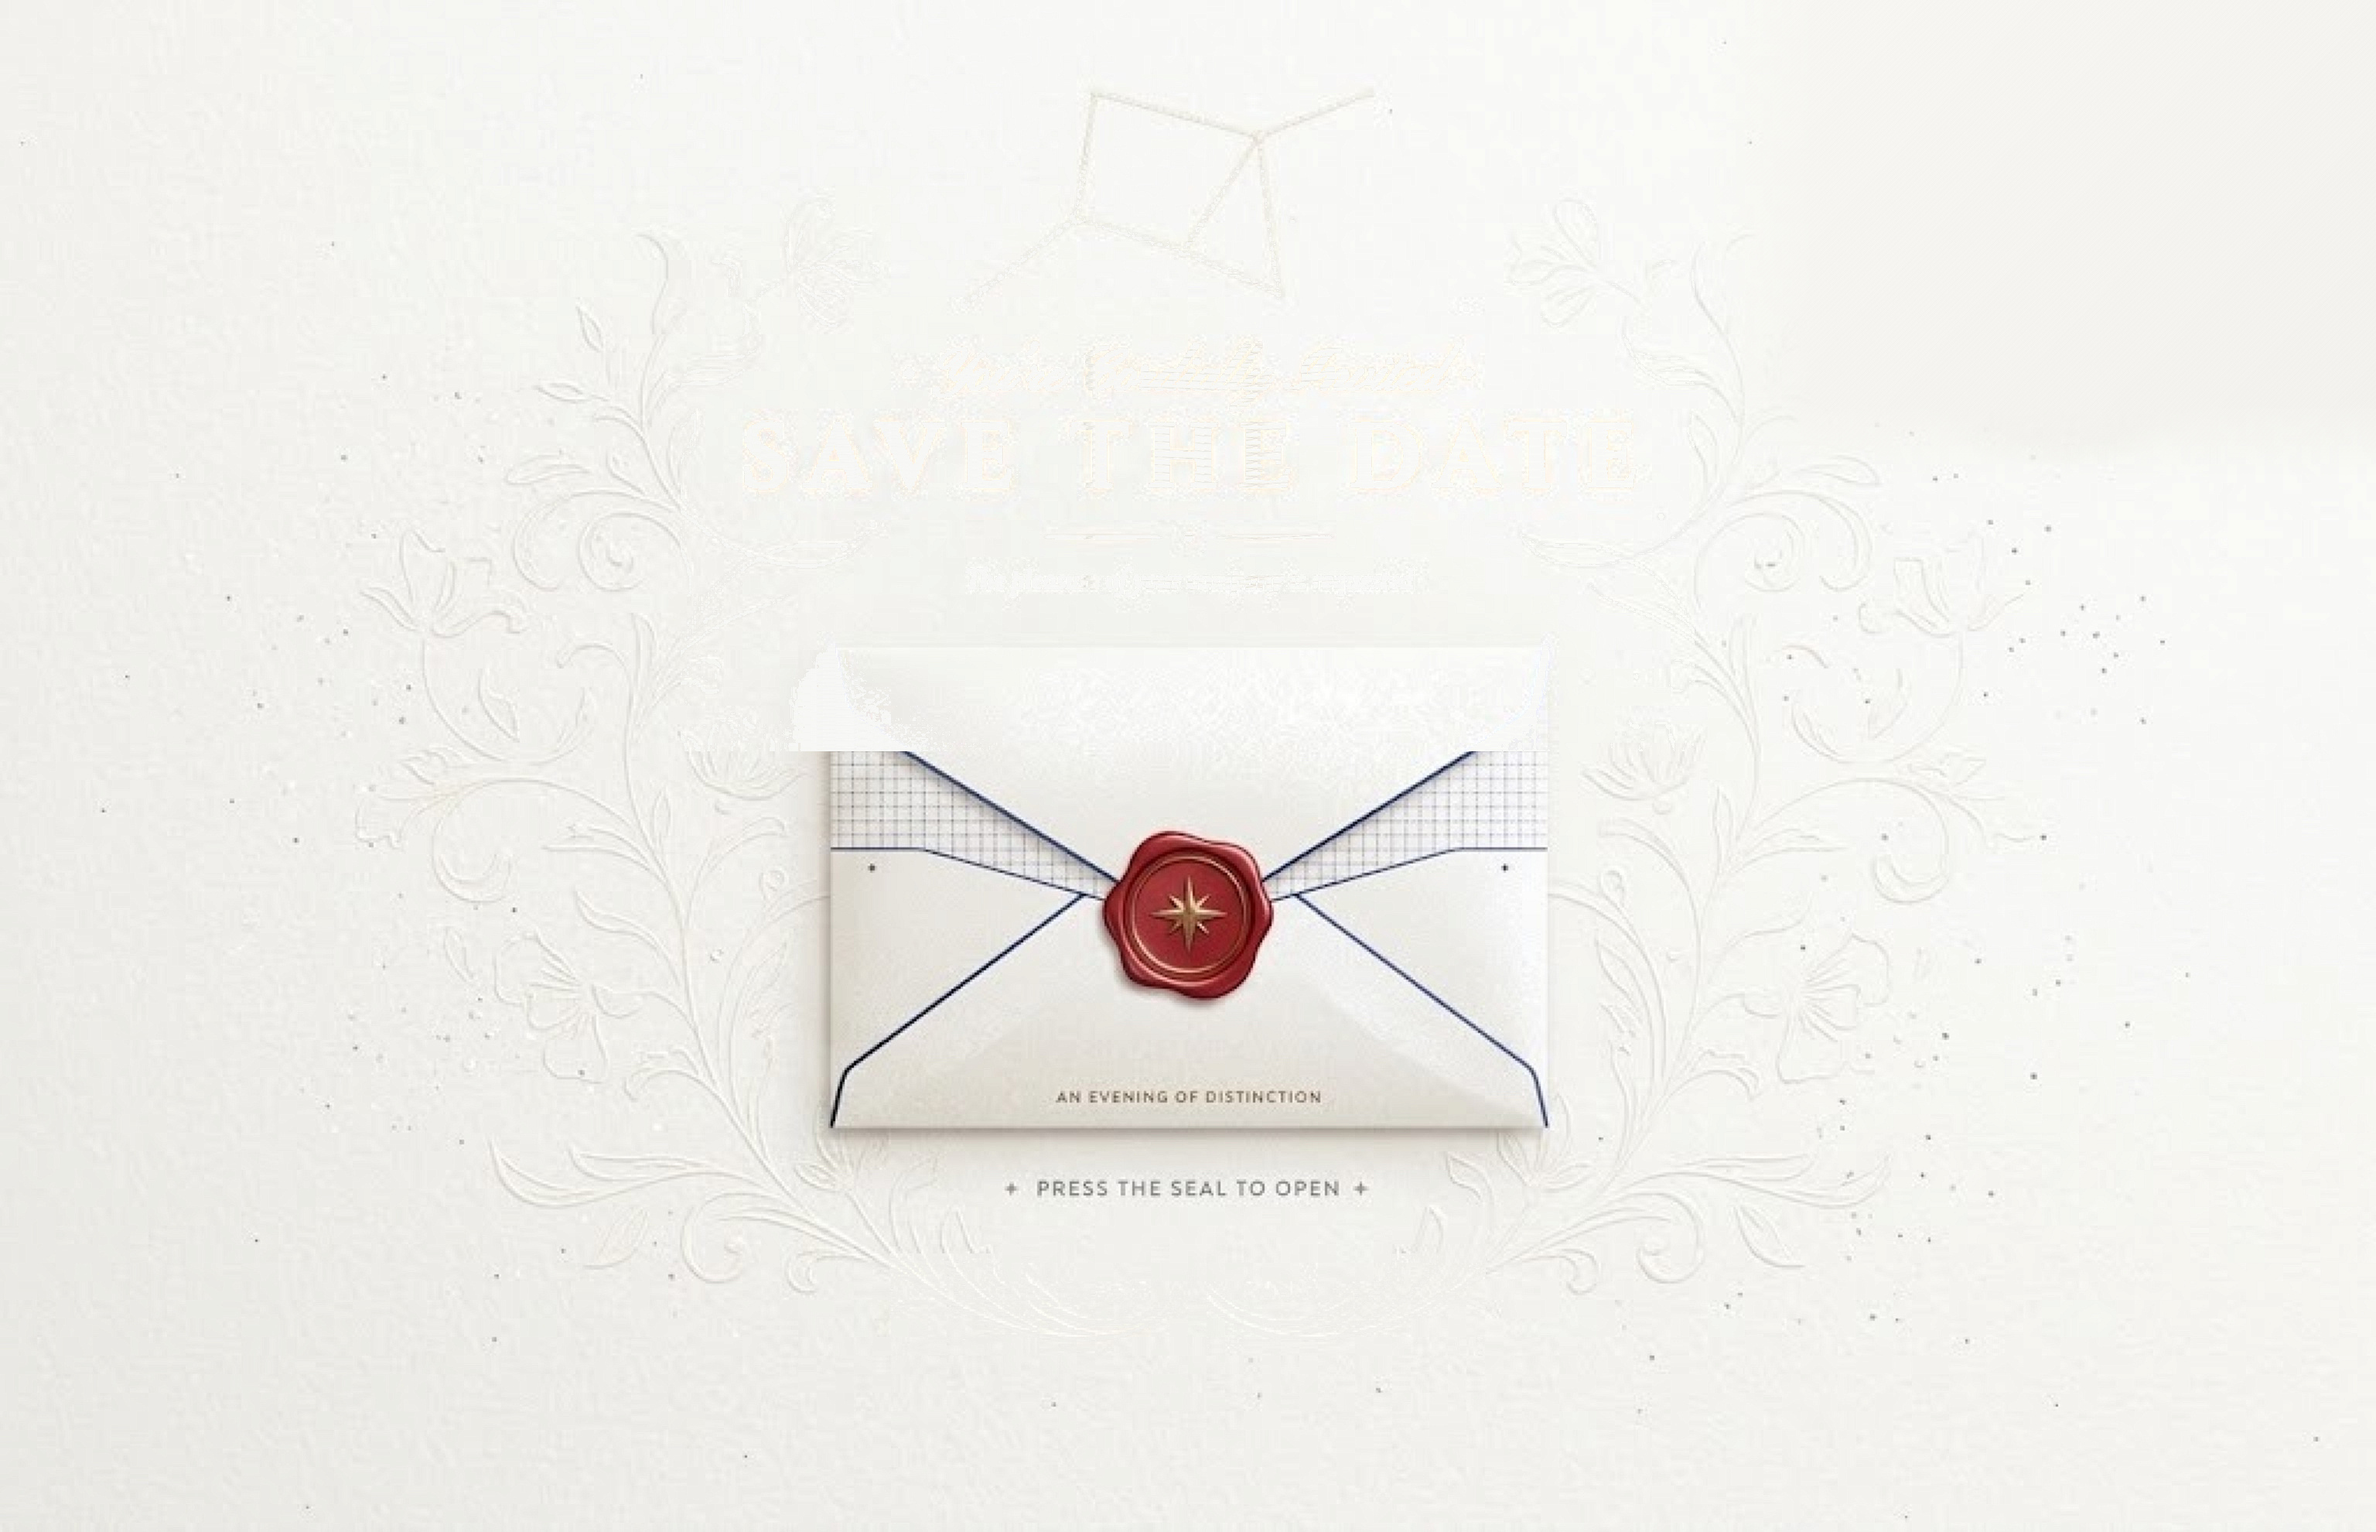
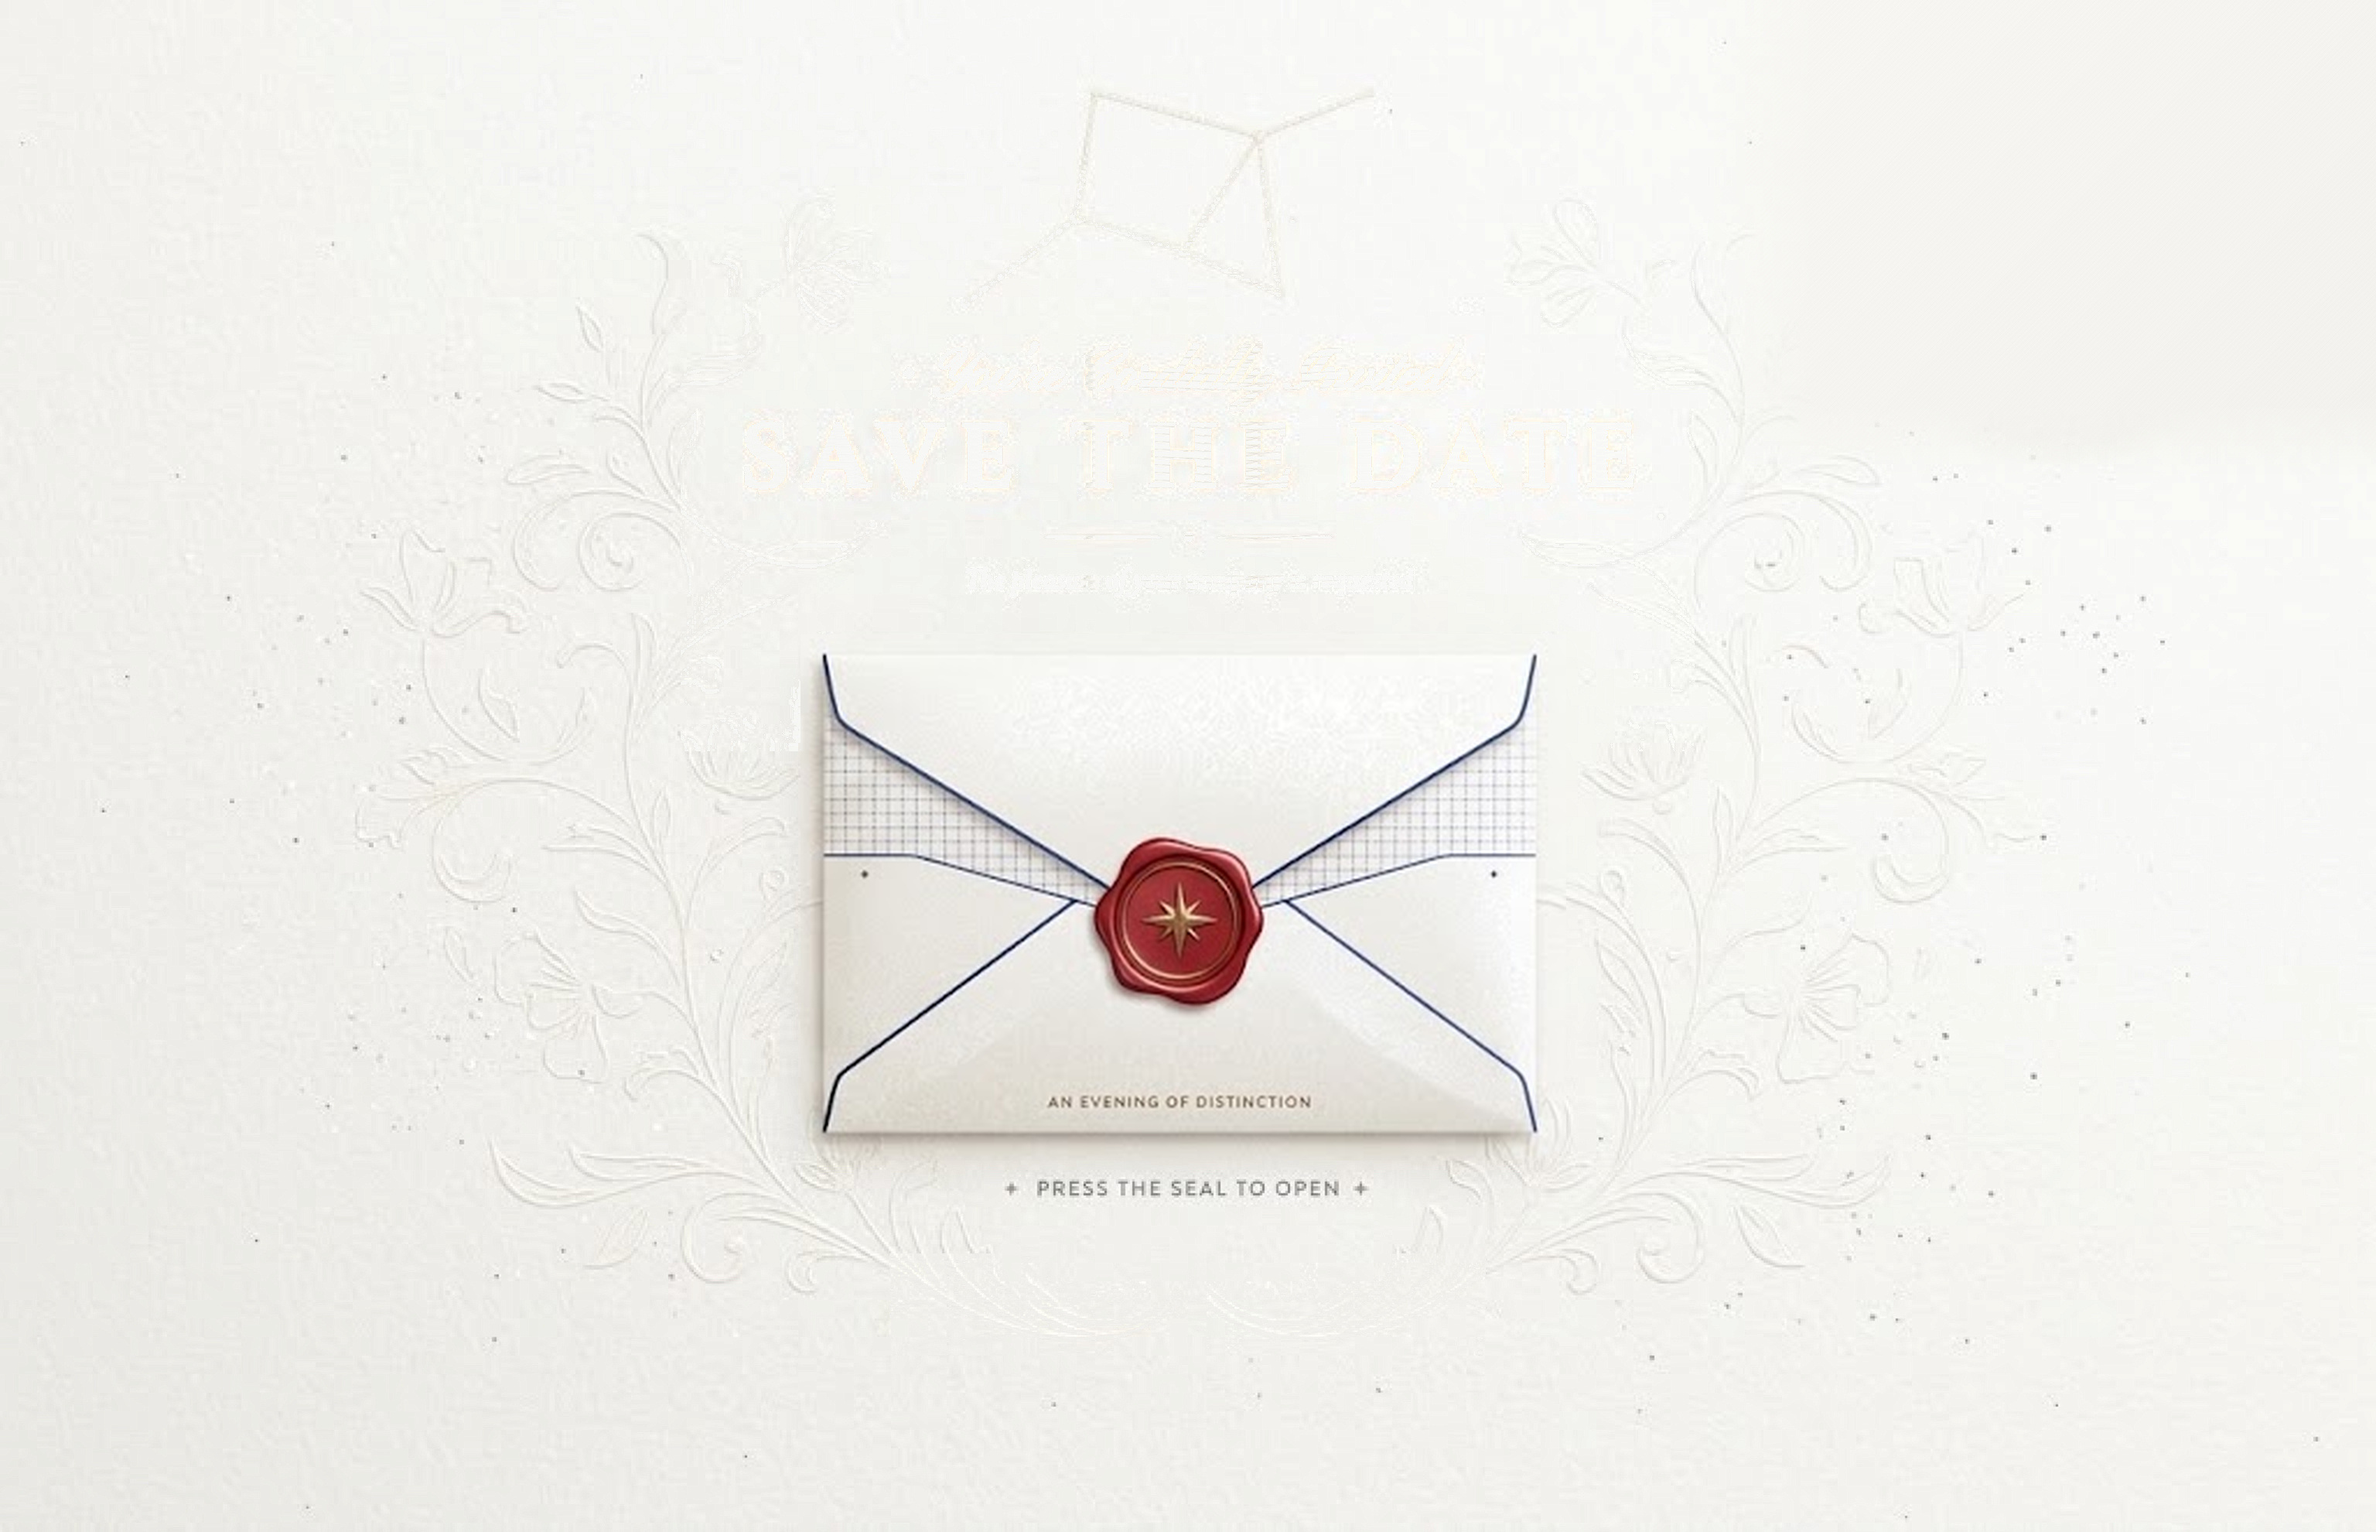
Add files via upload

diff --git a/App/assets/css/gate.css b/App/assets/css/gate.css
@@ -4,7 +4,7 @@
    Flawless PC & Mobile Responsive Architecture.
    ========================================================================== */
 
-@import url('https://fonts.googleapis.com/css2?family=Cinzel:wght@600;700;800&family=Cormorant+Garamond:ital,wght@0,400;1,400;1,500&family=Pinyon+Script&family=Montserrat:wght@400;500&display=swap');
+@import url('https://fonts.googleapis.com/css2?family=Cinzel:wght@600;700;800&family=Cormorant+Garamond:ital,wght@0,400;1,400;1,500&family=Pinyon+Script&family=Great+Vibes&family=Montserrat:wght@400;500&family=Playfair+Display:wght@600;700;800&display=swap');
 
 :root {
   --bg-canvas: #f5f4ef;
@@ -145,9 +145,9 @@ html, body {
 
 /* "✦ You're Cordially Invited ✦" Script */
 .script-invite {
-  font-family: 'Pinyon Script', cursive;
-  font-size: clamp(1.4rem, 2.5vw, 2.35rem);
-  color: var(--gold-text);
+  font-family: 'Great Vibes', 'Pinyon Script', cursive;
+  font-size: clamp(1.5rem, 2.65vw, 2.45rem);
+  color: #89612f;
   font-weight: 400;
   line-height: 1.15;
   letter-spacing: 0.03em;
@@ -167,16 +167,16 @@ html, body {
 
 /* "SAVE THE DATE" Foil Serif Title */
 .main-title {
-  font-family: 'Cinzel', serif;
-  font-size: clamp(1.6rem, 3.2vw, 3.1rem);
-  font-weight: 700;
-  letter-spacing: 0.32em;
+  font-family: 'Playfair Display', 'Cinzel', serif;
+  font-size: clamp(1.75rem, 3.35vw, 3.2rem);
+  font-weight: 800;
+  letter-spacing: 0.24em;
   text-transform: uppercase;
   margin: 4px 0 8px 0.32em; /* offset right letter-spacing */
-  background: var(--gold-foil);
-  -webkit-background-clip: text;
-  -webkit-text-fill-color: transparent;
-  filter: drop-shadow(0 1.5px 0.5px rgba(255, 255, 255, 0.95)) drop-shadow(0 2px 4px rgba(100, 70, 30, 0.22));
+  color: #96373b;
+  background: none;
+  -webkit-text-fill-color: #96373b;
+  filter: drop-shadow(0 1px 1px rgba(255, 255, 255, 0.85)) drop-shadow(0 1.5px 2px rgba(90, 28, 30, 0.2));
   line-height: 1.15;
   white-space: nowrap;
 }
@@ -230,8 +230,8 @@ html, body {
 
 .seal-interactive-anchor {
   position: absolute;
-  left: 50%;
-  top: 59.7%;
+  left: 49.6%;
+  top: 60.2%;
   transform: translate(-50%, -50%);
   height: 11.2%;
   aspect-ratio: 1 / 1;
@@ -244,6 +244,60 @@ html, body {
   outline: none;
   touch-action: none;
   transition: transform 0.2s cubic-bezier(0.34, 1.56, 0.64, 1), box-shadow 0.25s ease;
+}
+
+.seal-idle-ring {
+  position: absolute;
+  inset: -13%;
+  border: 1px solid rgba(205, 158, 67, 0.75);
+  border-radius: 50%;
+  box-shadow: 0 0 8px rgba(224, 181, 90, 0.45), inset 0 0 6px rgba(224, 181, 90, 0.16);
+  pointer-events: none;
+  visibility: hidden;
+  animation: sealRingPulse 2.6s ease-in-out infinite;
+}
+
+.artwork-stage.artwork-ready .seal-idle-ring {
+  visibility: visible;
+}
+
+.seal-idle-ring::before,
+.seal-idle-ring::after {
+  content: '✦';
+  position: absolute;
+  left: 50%;
+  top: 50%;
+  color: #fff3cb;
+  font: 12px/1 Georgia, serif;
+  text-shadow: 0 0 5px #cda04d, 0 0 12px rgba(255, 218, 132, 0.9);
+  animation: sealSparkleOrbit 3.4s linear infinite;
+}
+
+.seal-idle-ring::after {
+  color: #d1a148;
+  font-size: 9px;
+  animation-duration: 4.8s;
+  animation-direction: reverse;
+}
+
+.seal-interactive-anchor.pressed .seal-idle-ring {
+  border-color: rgba(255, 228, 160, 0.96);
+  animation-duration: 0.9s;
+}
+
+.seal-interactive-anchor.unsealed .seal-idle-ring {
+  opacity: 0;
+  transition: opacity 0.35s ease;
+}
+
+@keyframes sealRingPulse {
+  0%, 100% { transform: scale(0.96); opacity: 0.48; }
+  50% { transform: scale(1.06); opacity: 0.95; }
+}
+
+@keyframes sealSparkleOrbit {
+  from { transform: translate(-50%, -50%) rotate(0deg) translateX(54px) rotate(0deg); }
+  to { transform: translate(-50%, -50%) rotate(360deg) translateX(54px) rotate(-360deg); }
 }
 
 /* Expanded Touch Hitbox for Mobile Thumbs */
@@ -382,9 +436,9 @@ html, body {
   }
 
   .main-title {
-    font-size: 1.7rem;
-    letter-spacing: 0.22em;
-    margin: 2px 0 6px 0.22em;
+    font-size: 1.62rem;
+    letter-spacing: 0.16em;
+    margin: 2px 0 6px 0.16em;
   }
 
   .ornament-divider {
@@ -400,6 +454,16 @@ html, body {
     height: 11.2%;
   }
 
+  .seal-idle-ring::before,
+  .seal-idle-ring::after {
+    animation-name: sealSparkleOrbitMobile;
+  }
+
+  @keyframes sealSparkleOrbitMobile {
+    from { transform: translate(-50%, -50%) rotate(0deg) translateX(37px) rotate(0deg); }
+    to { transform: translate(-50%, -50%) rotate(360deg) translateX(37px) rotate(-360deg); }
+  }
+
   .gate-instruction-text {
     font-size: clamp(0.68rem, 2.9vw, 0.85rem);
     letter-spacing: 0.22em;
@@ -412,8 +476,8 @@ html, body {
     font-size: 1.25rem;
   }
   .main-title {
-    font-size: 1.45rem;
-    letter-spacing: 0.18em;
+    font-size: 1.32rem;
+    letter-spacing: 0.11em;
   }
   .gate-instruction-text {
     font-size: 0.62rem;

diff --git a/App/assets/js/gate.js b/App/assets/js/gate.js
@@ -12,6 +12,14 @@ document.addEventListener('DOMContentLoaded', () => {
 
   if (!sealAnchor || !canvas) return;
 
+  const artwork = stage?.querySelector('.gate-base-img');
+  const revealSealIndicator = () => stage?.classList.add('artwork-ready');
+  if (artwork?.complete && artwork.naturalWidth > 0) {
+    revealSealIndicator();
+  } else {
+    artwork?.addEventListener('load', revealSealIndicator, { once: true });
+  }
+
   const ctx = canvas.getContext('2d');
   const HOLD_DURATION = 3000; // Exactly 3000ms
   const BING_INTERVAL = 750;  // Harmonic ping cadence (0s, 0.75s, 1.5s, 2.25s)
@@ -28,6 +36,7 @@ document.addEventListener('DOMContentLoaded', () => {
   let nextBingTime = 0;
   let bingIndex = 0;
   let isUnlocked = false;
+  let gateHoldStartRequest = Promise.resolve(false);
 
   // Particle and Ripple pools
   const ripples = [];
@@ -76,6 +85,9 @@ document.addEventListener('DOMContentLoaded', () => {
     e.preventDefault();
 
     isHolding = true;
+    gateHoldStartRequest = sendGateAction('start_hold')
+      .then(({ ok, data }) => ok && data.success === true)
+      .catch(() => false);
     startTime = performance.now();
     elapsed = 0;
     bingIndex = 0;
@@ -103,11 +115,20 @@ document.addEventListener('DOMContentLoaded', () => {
 
   function handlePointerUp() {
     if (!isHolding) return;
+    const heldFor = performance.now() - startTime;
     isHolding = false;
     sealAnchor.classList.remove('pressed');
     window.luxuryAudio.stopHoldShimmer();
 
     if (isUnlocked) return;
+
+    if (heldFor >= HOLD_DURATION) {
+      elapsed = HOLD_DURATION;
+      completeUnseal(canvasWidth / 2);
+      return;
+    }
+
+    sendGateAction('cancel_hold').catch(() => {});
 
     // If released before 3 seconds
     if (instruction) {
@@ -376,32 +397,41 @@ document.addEventListener('DOMContentLoaded', () => {
   /**
    * Unlocks the backend PHP session and smoothly navigates to invitation.php
    */
-  function transitionToInvitation() {
+  function sendGateAction(action) {
     const gateToken = document.querySelector('meta[name="gate-token"]')?.content || '';
-
-    // Notify backend to unlock session
-    fetch('unlock.php', {
+    return fetch('unlock.php', {
       method: 'POST',
-      headers: {
-        'Content-Type': 'application/x-www-form-urlencoded',
-      },
-      body: new URLSearchParams({
-        action: 'unlock_gate',
-        gate_token: gateToken
-      })
-    })
-    .catch(() => {
-      // Ignore network errors, proceed with transition
-    })
-    .finally(() => {
-      // Allow user to see the golden fireworks and hear the fanfare (750ms), then transition
+      credentials: 'same-origin',
+      headers: { 'Content-Type': 'application/x-www-form-urlencoded' },
+      body: new URLSearchParams({ action, gate_token: gateToken })
+    }).then(async (response) => ({
+      ok: response.ok,
+      data: await response.json().catch(() => ({}))
+    }));
+  }
+
+  async function transitionToInvitation() {
+    try {
+      const holdStarted = await gateHoldStartRequest;
+      if (!holdStarted) throw new Error('Hold start was not accepted');
+
+      const result = await sendGateAction('unlock_gate');
+      if (!result.ok || result.data.success !== true) throw new Error('Hold was not verified');
+
+      // Let the user see the reveal, then open the server-validated invitation page.
       setTimeout(() => {
         document.body.style.transition = 'opacity 0.6s ease';
         document.body.style.opacity = '0';
-        setTimeout(() => {
-          window.location.href = 'invitation.php';
-        }, 500);
+        setTimeout(() => { window.location.href = 'invitation.php'; }, 500);
       }, 750);
-    });
+    } catch (error) {
+      isUnlocked = false;
+      sealAnchor.classList.remove('unsealed');
+      if (instruction) {
+        instruction.classList.remove('unsealed', 'holding');
+        instruction.classList.add('warn');
+        instruction.textContent = '✦ CONNECTION ISSUE — PLEASE TRY AGAIN ✦';
+      }
+    }
   }
 });

diff --git a/App/unlock.php b/App/unlock.php
@@ -3,20 +3,50 @@ if (session_status() === PHP_SESSION_NONE) {
     session_start();
 }
 
-// Mark session as legitimately unlocked through 3-second hold
-$_SESSION['gate_unlocked'] = true;
-$_SESSION['unlocked_at'] = time();
+header('Content-Type: application/json; charset=utf-8');
+header('Cache-Control: no-store, private');
 
-// If accessed directly via browser GET, redirect to invitation.php
-if ($_SERVER['REQUEST_METHOD'] === 'GET') {
-    header('Location: invitation.php');
+function gateResponse($status, $body) {
+    http_response_code($status);
+    echo json_encode($body);
     exit;
 }
 
-// Return JSON response for AJAX
-header('Content-Type: application/json; charset=utf-8');
-echo json_encode([
-    'success' => true,
-    'redirect' => 'invitation.php'
-]);
-exit;
+if ($_SERVER['REQUEST_METHOD'] !== 'POST') {
+    header('Allow: POST');
+    gateResponse(405, ['success' => false, 'error' => 'method_not_allowed']);
+}
+
+$postedToken = $_POST['gate_token'] ?? '';
+$sessionToken = $_SESSION['gate_token'] ?? '';
+if (!is_string($postedToken) || !is_string($sessionToken) || $sessionToken === '' || !hash_equals($sessionToken, $postedToken)) {
+    gateResponse(403, ['success' => false, 'error' => 'invalid_token']);
+}
+
+$action = $_POST['action'] ?? '';
+if ($action === 'start_hold') {
+    $_SESSION['gate_hold_started_at'] = microtime(true);
+    gateResponse(200, ['success' => true]);
+}
+
+if ($action === 'cancel_hold') {
+    unset($_SESSION['gate_hold_started_at']);
+    gateResponse(200, ['success' => true]);
+}
+
+if ($action !== 'unlock_gate') {
+    gateResponse(400, ['success' => false, 'error' => 'invalid_action']);
+}
+
+$startedAt = $_SESSION['gate_hold_started_at'] ?? null;
+unset($_SESSION['gate_hold_started_at']);
+$holdDuration = is_numeric($startedAt) ? microtime(true) - (float)$startedAt : 0;
+if ($holdDuration < 2.75 || $holdDuration > 30) {
+    gateResponse(403, ['success' => false, 'error' => 'hold_not_verified']);
+}
+
+session_regenerate_id(true);
+$_SESSION['gate_unlocked'] = true;
+$_SESSION['gate_unlock_version'] = 1;
+$_SESSION['unlocked_at'] = time();
+gateResponse(200, ['success' => true, 'redirect' => 'invitation.php']);

diff --git a/App/index.php b/App/index.php
@@ -73,6 +73,7 @@ $gateToken = $_SESSION['gate_token'];
       <!-- Interactive Wax Seal Anchor (Anchored to exact seal position: 50.0% X, 59.7% Y) -->
       <!-- The wax seal is rendered natively from the 3K artwork with zero cut/halo artifacts -->
       <div class="seal-interactive-anchor" id="sealAnchor" role="button" tabindex="0" aria-label="Press and hold the seal for 3 seconds to unseal the invitation">
+        <span class="seal-idle-ring" aria-hidden="true"></span>
         <!-- High-DPI Canvas for Molten Gold Progress Arc, Shockwave Bings & Embers -->
         <canvas id="bingCanvas" class="bing-canvas"></canvas>
       </div>

diff --git a/App/invitation.php b/App/invitation.php
@@ -2,8 +2,11 @@
 if (session_status() === PHP_SESSION_NONE) {
     session_start();
 }
-// Guard: Only allow viewing if unlocked via the gate!
-if (empty($_SESSION['gate_unlocked']) && !isset($_GET['preview'])) {
+header('Cache-Control: private, no-store, max-age=0');
+header('X-Robots-Tag: noindex, nofollow, noarchive');
+
+// Only sessions unlocked through the validated seal-hold flow can view this page.
+if (empty($_SESSION['gate_unlocked']) || ($_SESSION['gate_unlock_version'] ?? 0) !== 1) {
     header('Location: index.php?locked=1');
     exit;
 }
